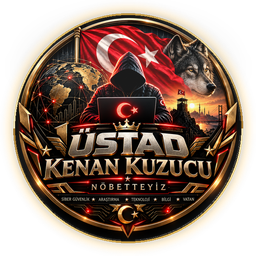
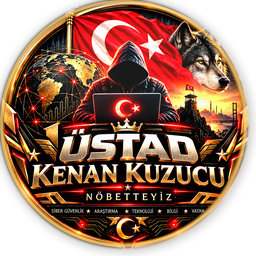
Sol ust ve sol alt logolar altin madalyon oldu
- Sol UST: eylem seridi markasi bos halkaydi (logo yoktu) -> madalyon konuldu
  (web/amblem-medalyon.png 96px, 44px gosterim, altin isima).
- Sol ALT: menu alti kunye madalyonu yeniden islendi; sayfada soluk/karanlik
  gorunuyordu -> parlaklik 1.42 / doygunluk 1.20 / kontrast 1.12 ile aydinlatildi.
- Yeni arac: madalyon-uret.py (kaynak UUID png -> dairesel kesim, seffaf zemin,
  altin cerceve, dis isima). Kaynak yolu argumanla degistirilebilir.
- Foto URL'lerine ?v=2 eklendi (tarayici eski gorseli onbellekten gostermesin).

diff --git a/web/index.html b/web/index.html
@@ -37,7 +37,10 @@
 <!-- ============================== EYLEM ŞERİDİ ============================== -->
 <div class="eylemSerit" id="eylemSerit">
   <div class="esAd">
-    <div class="amblem" style="width:38px;height:38px"><span class="amblemHalka"></span></div>
+    <div class="amblem marka" style="width:44px;height:44px">
+      <img src="amblem-medalyon.png?v=2" alt="ÜSTAD amblemi">
+      <span class="amblemHalka"></span>
+    </div>
     <div>
       <b>ÜSTAD OSINT</b>
       <span>Open Source Intelligence</span>
@@ -49,7 +52,7 @@
   <button class="esDug" data-git="map"><i>🗺</i>MAP</button>
   <button class="esDug" data-git="report"><i>📄</i>REPORT</button>
   <div class="esKisi">
-    <img src="foto-kurucu.png" alt="Üstad Kenan Kuzucu">
+    <img src="foto-kurucu.png?v=2" alt="Üstad Kenan Kuzucu">
     <div>
       <b>Üstad Kenan Kuzucu</b>
       <span>OSINT Araştırmacısı</span>
@@ -119,7 +122,7 @@
 
     <div class="menuAlt">
       <div class="kunyeBuyuk">
-      <img src="foto-kurucu.png" alt="Üstad Kenan Kuzucu">
+      <img src="foto-kurucu.png?v=2" alt="Üstad Kenan Kuzucu">
       <b>Üstad Kenan Kuzucu</b>
       <span>OSINT Araştırmacısı</span>
       <em>“Bilgi, gücün en temiz halidir.”</em>

diff --git a/web/osint.css b/web/osint.css
@@ -9,6 +9,12 @@
   padding:8px 14px;background:var(--arka2);border-bottom:1px solid var(--cizgi);
 }
 .eylemSerit .esAd{display:flex;align-items:center;gap:9px;margin-right:8px}
+/* sol ÜST marka logosu: madalyon (amblem-medalyon.png) */
+.eylemSerit .esAd .amblem.marka{flex:0 0 44px;border-radius:50%;background:transparent}
+.eylemSerit .esAd .amblem.marka img{position:relative;z-index:2;display:block;width:100%;height:100%;
+  border-radius:50%;object-fit:cover;
+  filter:drop-shadow(0 0 5px rgba(255,196,92,.85)) drop-shadow(0 0 14px rgba(255,170,40,.40))}
+.eylemSerit .esAd .amblem.marka .amblemHalka{inset:-4px}
 .eylemSerit .esAd b{font-size:16px;letter-spacing:.5px;color:var(--yazi)}
 .eylemSerit .esAd span{display:block;font-size:9.5px;letter-spacing:2.4px;color:var(--soluk);text-transform:uppercase}
 .esDug{

diff --git a/madalyon-uret.py b/madalyon-uret.py
@@ -1,0 +1,116 @@
+# -*- coding: utf-8 -*-
+"""ÜSTAD OSINT — madalyon amblem işleyici (proje içi araç).
+
+Kaynak: Masaüstü'ndeki UUID adlı altın madalyon PNG'si (düz koyu zemin, şeffaf değil).
+Yaptığı: koyu zemini eşikleyip dairesel keser, zeminini şeffaf yapar, altın çerçeve +
+dış ışıma ekler ve LOGO BOYUTLARINDA okunacak şekilde aydınlatır.
+
+Neden aydınlatma var: madalyonun kendi zemini koyu; 104 px'e küçültülünce sayfada
+muddy/soluk görünüyordu (ölçüm: saydam olmayan piksellerde ortalama parlaklık düşük).
+Bu yüzden parlaklık 1.42 ile çarpılır, doygunluk 1.20, kontrast 1.12.
+
+Üretir (web/ içine):
+  foto-kurucu.png     256px → sol ALT logo (menü altı künye) ve üst şerit künyesi
+  amblem-medalyon.png  96px → sol ÜST logo (eylem şeridi markası)
+  yedek/madalyon-560.png    → ana kopya (yeniden üretim için)
+
+Çalıştır:  python madalyon-uret.py
+"""
+import os
+import sys
+
+from PIL import Image, ImageDraw, ImageEnhance, ImageFilter
+
+KOK = os.path.dirname(os.path.abspath(__file__))
+WEB = os.path.join(KOK, "web")
+YEDEK = os.path.join(KOK, "yedek")
+VARSAYILAN_KAYNAK = r"C:\Users\kenan\OneDrive\Desktop\f063ec25-fbce-4fbe-9a32-47e41b149477.png"
+
+ALTIN = (255, 205, 110)
+ALTIN_KOYU = (196, 140, 42)
+
+
+def medalyon(kaynak_yolu):
+    src = Image.open(kaynak_yolu).convert("RGB")
+
+    # 1) Koyu zemini eşikleyip madalyonun sınırlarını bul
+    gri = src.convert("L")
+    esikli = gri.point(lambda v: 255 if v > 38 else 0)
+    kutu = esikli.getbbox()
+    if not kutu:
+        raise RuntimeError("madalyon sınırı bulunamadı (görsel tamamen koyu?)")
+    x0, y0, x1, y1 = kutu
+    cap = y1 - y0                      # kanat uçları yatayda taşar → çap = yükseklik
+    cx, cy = (x0 + x1) // 2, (y0 + y1) // 2
+    yari = cap // 2
+    kirp = src.crop((cx - yari, cy - yari, cx + yari, cy + yari))
+    print("esik kutusu:", kutu, "| kirpilan:", kirp.size)
+
+    # 2) Aydınlatma (küçük ikonda okunurluk için şart)
+    kirp = ImageEnhance.Brightness(kirp).enhance(1.42)
+    kirp = ImageEnhance.Contrast(kirp).enhance(1.12)
+    kirp = ImageEnhance.Color(kirp).enhance(1.20)
+
+    # 3) Yumuşak kenarlı dairesel maske (büyük tuvalde çiz, sonra küçült → kenar yumuşar)
+    olcek = 4
+    buyuk = kirp.size[0] * olcek
+    kirp_b = kirp.resize((buyuk, buyuk), Image.LANCZOS)
+    maske = Image.new("L", (buyuk, buyuk), 0)
+    ciz = ImageDraw.Draw(maske)
+    ic = int(buyuk * 0.965)
+    ciz.ellipse((0, 0, ic, ic), fill=255)
+    maske = maske.filter(ImageFilter.GaussianBlur(buyuk * 0.006))
+
+    # 4) Altın çerçeve + cam parlaması
+    cerceve = Image.new("RGBA", (buyuk, buyuk), (0, 0, 0, 0))
+    c2 = ImageDraw.Draw(cerceve)
+    kalinlik = max(2, int(buyuk * 0.012))
+    c2.ellipse((1, 1, ic - 1, ic - 1), outline=ALTIN + (200,), width=kalinlik)
+    c2.ellipse((kalinlik, kalinlik, ic - kalinlik, ic - kalinlik),
+               outline=ALTIN_KOYU + (150,), width=max(1, kalinlik // 2))
+    parlak = Image.new("RGBA", (buyuk, buyuk), (0, 0, 0, 0))
+    p2 = ImageDraw.Draw(parlak)
+    p2.ellipse((int(buyuk * 0.16), int(buyuk * 0.06), int(buyuk * 0.84), int(buyuk * 0.50)),
+               fill=(255, 255, 255, 26))
+    parlak = parlak.filter(ImageFilter.GaussianBlur(buyuk * 0.03))
+
+    # 5) Gövde + parlaklık + çerçeve
+    govde = kirp_b.convert("RGBA")
+    govde.putalpha(maske)
+    govde = Image.alpha_composite(govde, parlak)
+    govde = Image.alpha_composite(govde, cerceve)
+
+    # 6) Dış ışıma (altın hale)
+    hale = Image.new("RGBA", (buyuk, buyuk), (0, 0, 0, 0))
+    h = ImageDraw.Draw(hale)
+    h.ellipse((int(buyuk * .01), int(buyuk * .01), ic, ic), outline=(255, 196, 92, 190),
+              width=max(2, int(buyuk * .02)))
+    hale = hale.filter(ImageFilter.GaussianBlur(buyuk * 0.022))
+
+    tuval = Image.new("RGBA", (buyuk, buyuk), (0, 0, 0, 0))
+    tuval = Image.alpha_composite(tuval, hale)
+    tuval = Image.alpha_composite(tuval, govde)
+    return tuval
+
+
+def kaydet(im, yol, boy):
+    if not os.path.isdir(os.path.dirname(yol)):
+        os.makedirs(os.path.dirname(yol), exist_ok=True)
+    im.resize((boy, boy), Image.LANCZOS).save(yol, optimize=True)
+    print("  yazildi: %-44s %3dpx  %6.1f KB" % (os.path.basename(yol), boy, os.path.getsize(yol) / 1024))
+
+
+def main():
+    kaynak = sys.argv[1] if len(sys.argv) > 1 else VARSAYILAN_KAYNAK
+    if not os.path.exists(kaynak):
+        print("HATA: kaynak görsel yok:", kaynak)
+        return 1
+    ana = medalyon(kaynak)
+    kaydet(ana, os.path.join(YEDEK, "madalyon-560.png"), 560)
+    kaydet(ana, os.path.join(WEB, "foto-kurucu.png"), 256)      # sol ALT logo
+    kaydet(ana, os.path.join(WEB, "amblem-medalyon.png"), 96)   # sol ÜST logo
+    return 0
+
+
+if __name__ == "__main__":
+    sys.exit(main())
